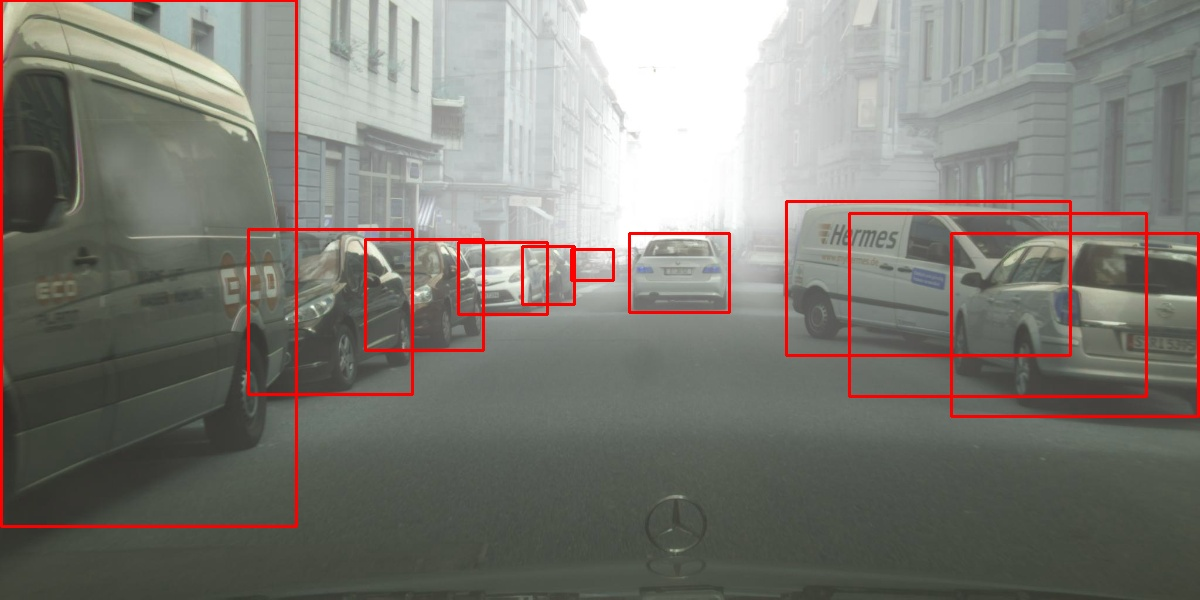
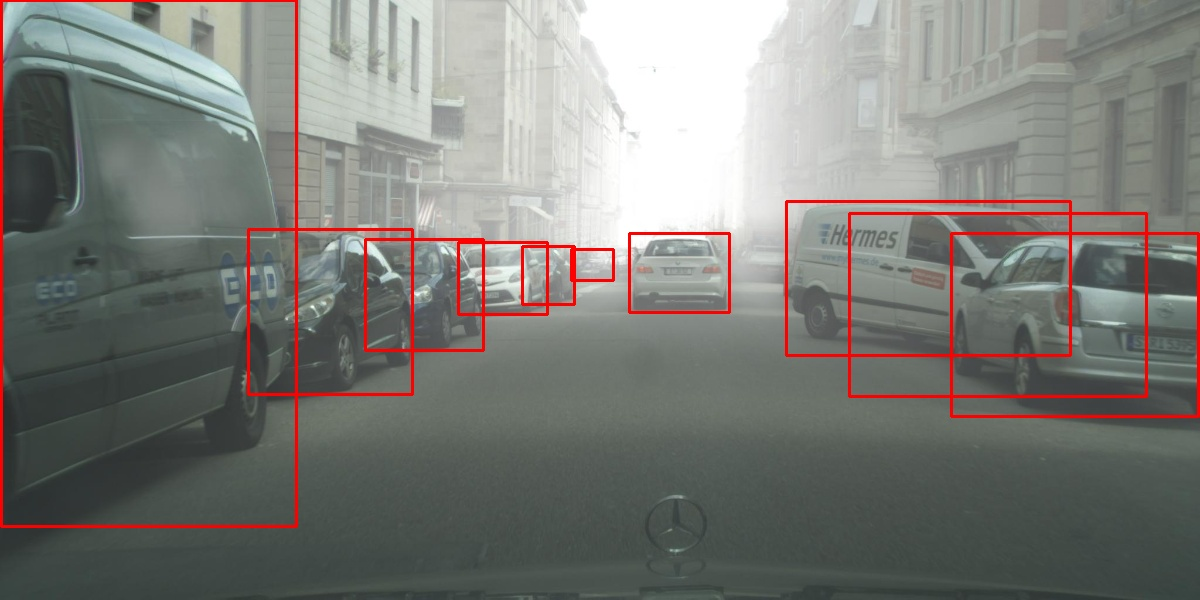
Visualize code

diff --git a/tools/visualize.py b/tools/visualize.py
@@ -35,9 +35,9 @@ def visualize(args, model):
         pred_score = outputs[0]["instances"][idx].scores.item()
         if pred_score >= 0.5:
             bbox = pred_box.numpy().astype(int)[0]
-            cv2.rectangle(img, (bbox[0], bbox[1]), (bbox[2], bbox[3]), (0, 0, 255), 2)
+            cv2.rectangle(img, (bbox[0], bbox[1]), (bbox[2], bbox[3]), (255, 0, 0), 2)
 
-    cv2.imwrite("output.jpg", img)
+    cv2.imwrite("output.jpg", cv2.cvtColor(img, cv2.COLOR_RGB2BGR))
     return
 
 def setup(args):
@@ -76,3 +76,4 @@ if __name__ == "__main__":
         dist_url=args.dist_url,
         args=(args,),
     )
+
